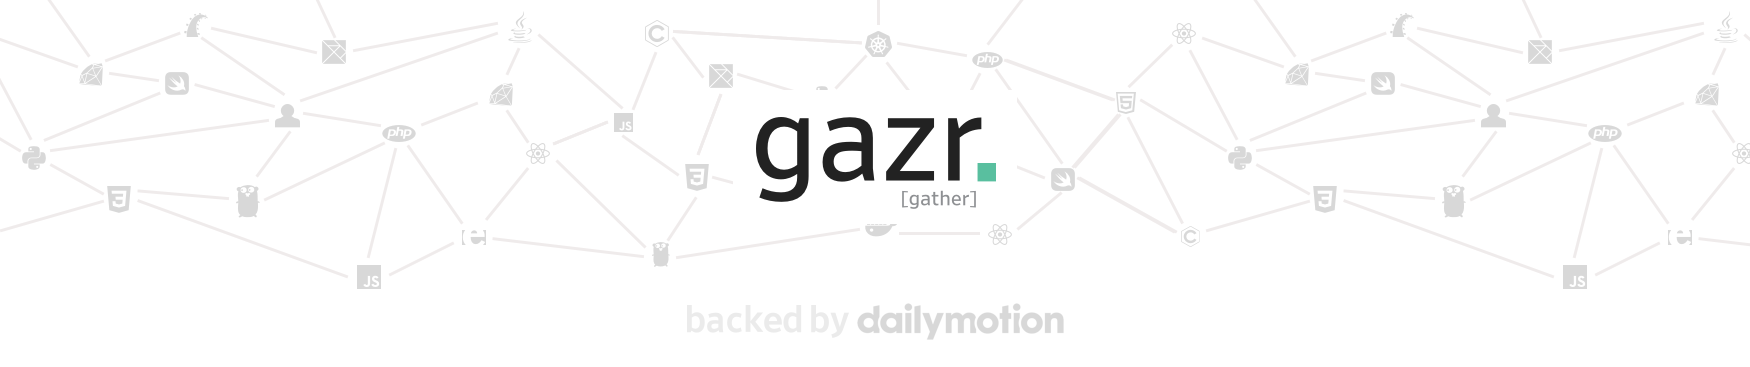
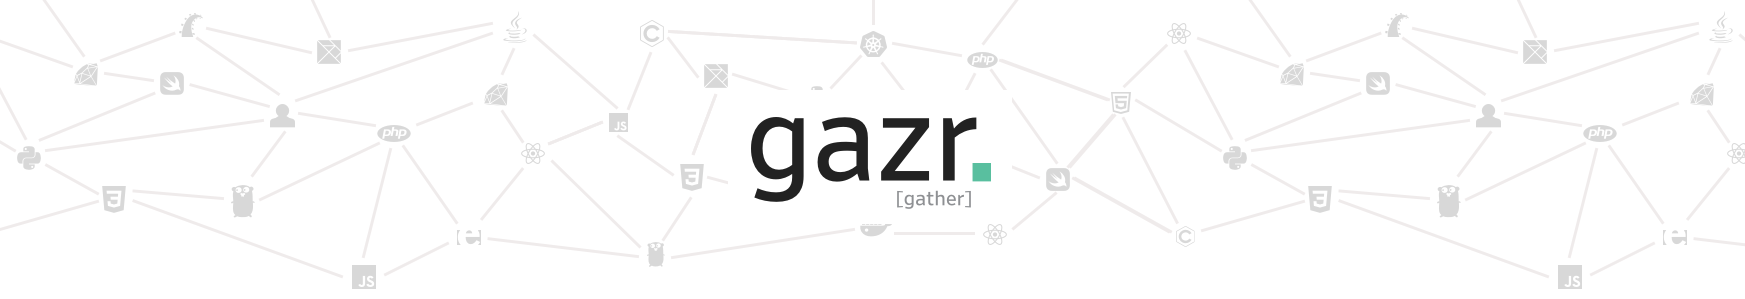
:guitar: Remove Dailymotion as the company behind Gazr. Gazr is now autonomous.

diff --git a/README.md b/README.md
@@ -8,8 +8,10 @@
 
 Developers live in a technological world which is rapidly evolving.
 With the move to microservices, they need to constantly switch between projects, technologies, programming languages, frameworks and more.
-At dailymotion, we care about the well being of our engineers, as they work over 500+ repositories, developed with more than 50 different technological stacks.
-gazr is an approach to deal with the complexity of our codebase.
+
+### Dailymotion one
+At dailymotion, they care about the well being of their engineers, as they work over 500+ repositories, developed with more than 50 different technological stacks.
+Gazr is an approach to deal with the complexity of their codebase.
 
 ## Foundation
 
